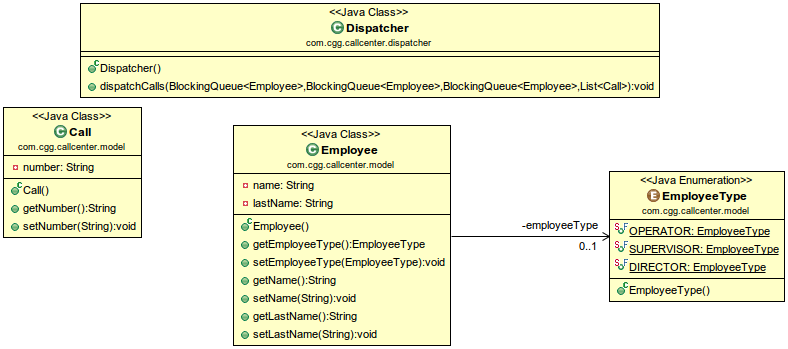
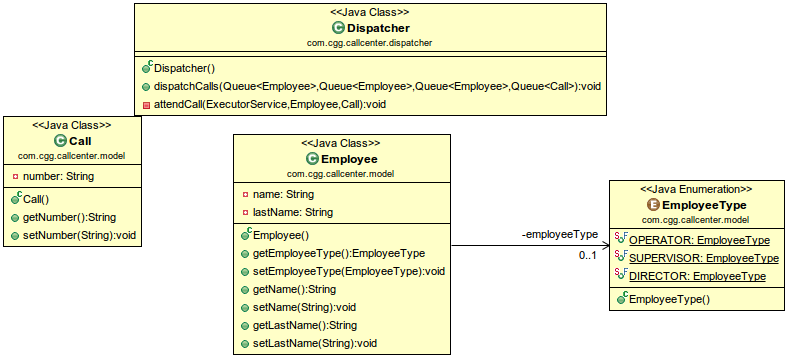
Queues correct

Changed region(s): [[0.0, 0.0, 0.8528, 1.0], [0.5787, 0.4871, 1.0, 0.8883]]

diff --git a/callcenter/src/test/java/com/cgg/callcenter/DispatcherTest.java b/callcenter/src/test/java/com/cgg/callcenter/DispatcherTest.java
@@ -2,8 +2,8 @@ package com.cgg.callcenter;
 
 import java.io.BufferedReader;
 import java.io.FileReader;
-import java.util.ArrayList;
-import java.util.List;
+import java.util.Queue;
+import java.util.concurrent.LinkedBlockingQueue;
 
 import org.junit.Before;
 import org.junit.Test;
@@ -24,26 +24,26 @@ public class DispatcherTest extends TestCase {
 
 	private Dispatcher dispatcher;
 
-	private List<Employee> operators;
+	private Queue<Employee> operators;
 
-	private List<Employee> supervisors;
+	private Queue<Employee> supervisors;
 
-	private List<Employee> directors;
+	private Queue<Employee> directors;
 
-	private List<Call> calls;
+	private Queue<Call> calls;
 
 	@Before
 	public void setUp() {
 		dispatcher = new Dispatcher();
-		operators = new ArrayList<Employee>();
-		supervisors = new ArrayList<Employee>();
-		directors = new ArrayList<Employee>();
-		calls = new ArrayList<Call>();
+		operators = new LinkedBlockingQueue<Employee>();
+		supervisors = new LinkedBlockingQueue<Employee>();
+		directors = new LinkedBlockingQueue<Employee>();
+		calls = new LinkedBlockingQueue<Call>();
 		try {
 			fillEmployees();
 			fillCalls();
 		} catch (Exception e) {
-			System.out.println("Error loading data files: ");
+			System.out.println("Error loading data files.");
 			e.printStackTrace();
 		}
 	}
@@ -59,7 +59,7 @@ public class DispatcherTest extends TestCase {
 		BufferedReader br = null;
 		try {
 
-			br = new BufferedReader(new FileReader("employess.csv"));
+			br = new BufferedReader(new FileReader("/src/test/resources/employess.csv"));
 			String line = null;
 
 			while ((line = br.readLine()) != null) {
@@ -99,7 +99,7 @@ public class DispatcherTest extends TestCase {
 		BufferedReader br = null;
 		try {
 
-			br = new BufferedReader(new FileReader("calls.csv"));
+			br = new BufferedReader(new FileReader("resources/calls.csv"));
 			String line = null;
 
 			while ((line = br.readLine()) != null) {

diff --git a/callcenter/src/main/java/com/cgg/callcenter/dispatcher/Dispatcher.java b/callcenter/src/main/java/com/cgg/callcenter/dispatcher/Dispatcher.java
@@ -1,7 +1,8 @@
 package com.cgg.callcenter.dispatcher;
 
-import java.util.List;
-import java.util.concurrent.BlockingQueue;
+import java.util.Queue;
+import java.util.concurrent.ExecutorService;
+import java.util.concurrent.Executors;
 
 import com.cgg.callcenter.model.Call;
 import com.cgg.callcenter.model.Employee;
@@ -16,9 +17,53 @@ public class Dispatcher {
 	/**
 	 * Dispatch calls concurrently
 	 */
-	public void dispatchCalls(BlockingQueue<Employee> operators, BlockingQueue<Employee> supervisors, BlockingQueue<Employee> directors,
-			List<Call> calls) {
+	public void dispatchCalls(Queue<Employee> operators, Queue<Employee> supervisors, Queue<Employee> directors,
+			Queue<Call> calls) {
 
-		
+		// Para 1-10 threads
+		// Para cada llamada
+		// Ver si hay operadores
+		// Sino ver si hay supervisores
+		// Sino ver si hay directores
+		// Sino
+
+		ExecutorService executorService = Executors.newFixedThreadPool(10);
+
+		Call call = null;
+
+		while ((call = calls.poll()) != null) {
+
+			if (operators.size() > 0) {
+				Employee operator = operators.poll();
+				executorService.execute(new Runnable() {
+					public void run() {
+
+					}
+				});
+				operators.add(operator);
+			} else if (supervisors.size() > 0) {
+				Employee supervisor = supervisors.poll();
+				executorService.execute(new Runnable() {
+					public void run() {
+						
+					}
+				});
+				supervisors.add(supervisor);
+			} else if (directors.size() > 0) {
+				Employee director = directors.poll();
+				executorService.execute(new Runnable() {
+					public void run() {
+
+					}
+				});
+				directors.add(director);
+			}
+
+		}
 	}
+
+	private void attendCall(ExecutorService executor, Employee employee, Call call) {
+
+	}
+
 }
